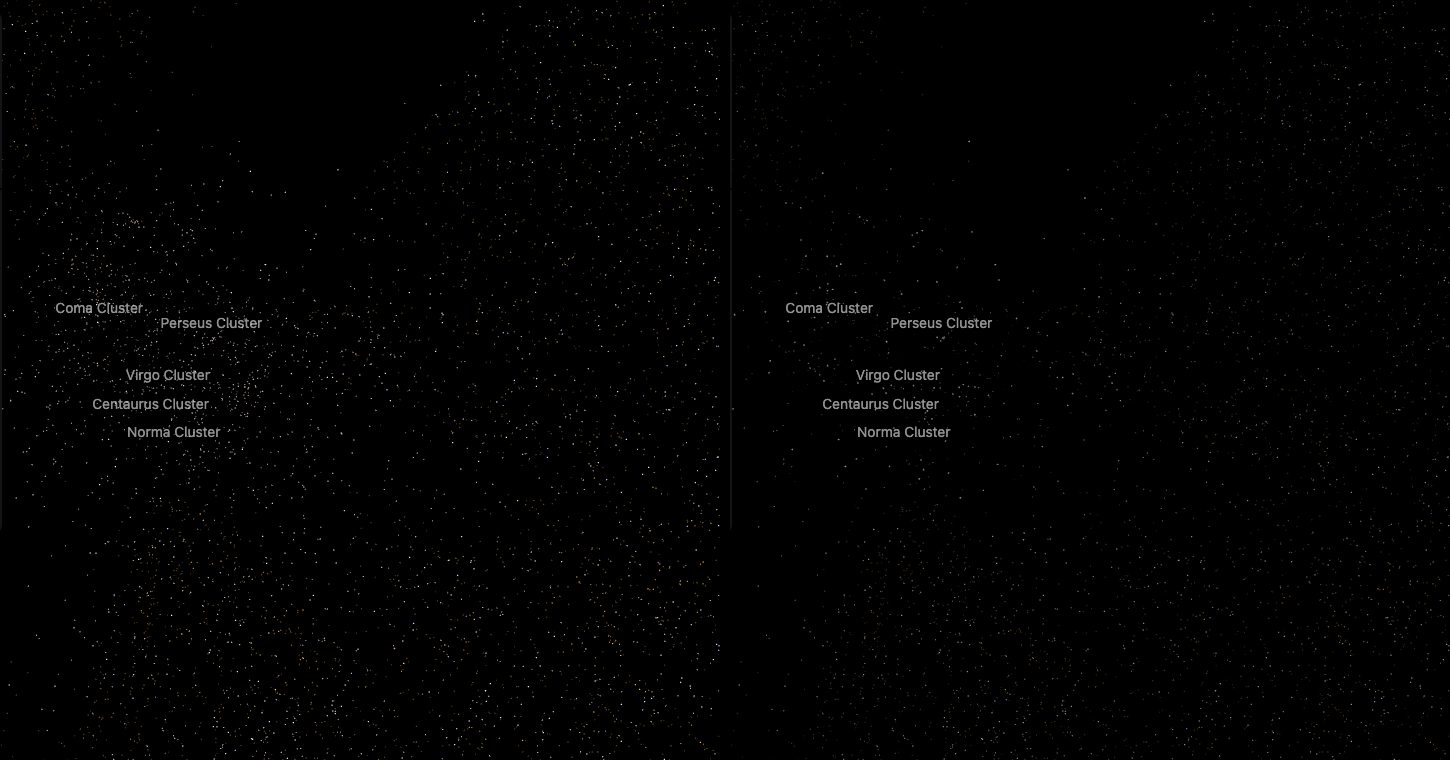
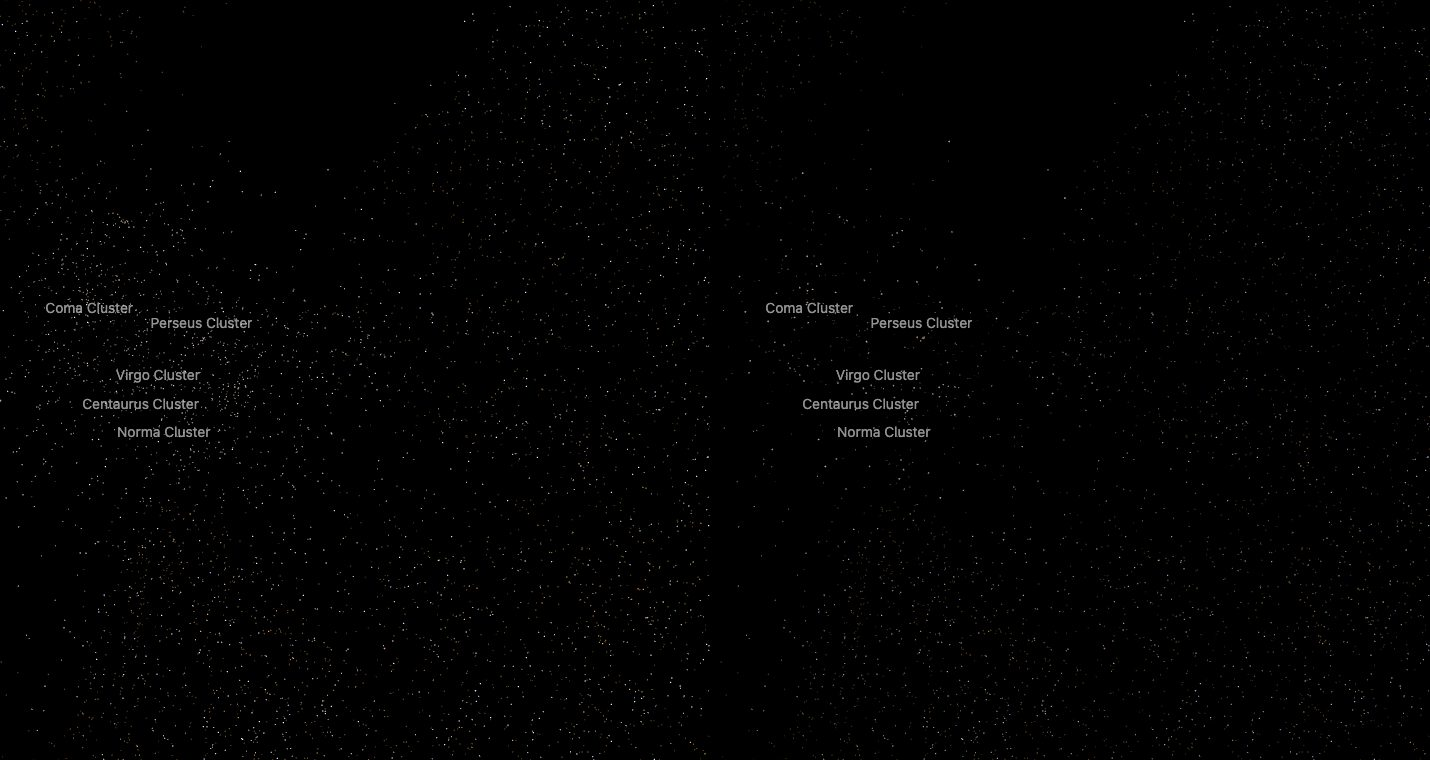
feat(universe): the background galaxies at 70%, with the before and after retaken

diff --git a/packages/renderer/src/universe/background-points.test.ts b/packages/renderer/src/universe/background-points.test.ts
@@ -21,7 +21,7 @@ test('inside our galaxy the banks neither load nor show', async () => {
   assert.deepEqual(roots.map(root => root.style.display), ['none', 'none']);
   field.publish(publication, 1e6 * pc, 1);
   assert.deepEqual(fetched, ['/a.json', '/b.json']);
-  assert.deepEqual(roots.map(root => root.style.opacity), ['0.6', '0.6'], 'fully outside, the background draws at its backdrop opacity');
+  assert.deepEqual(roots.map(root => root.style.opacity), ['0.7', '0.7'], 'fully outside, the background draws at its backdrop opacity');
   field.publish(publication, 8_000 * pc, 0);
   assert.deepEqual(roots.map(root => root.style.display), ['none', 'none']);
   field.destroy();

diff --git a/packages/renderer/src/universe/background-points.ts b/packages/renderer/src/universe/background-points.ts
@@ -2,7 +2,7 @@ import { mountCataloguePoints } from './catalogue-points.js';
 import type { VolumeCameraPublication } from '../volume/types.js';
 /** The galaxies beyond the Local Group draw at this share of their dots' own opacity: a backdrop behind the object in view.
  * A presentation choice, set by eye in the app. */
-const BACKGROUND_OPACITY = 0.6;
+const BACKGROUND_OPACITY = 0.7;
 /** A background bank, and the camera distance it begins at: it is fetched there and fades in over the next doubling. */
 export interface BackgroundPointBank { readonly url: string; readonly fromDistanceM?: number }
 

diff --git a/src/objects/nearby-universe/README.md b/src/objects/nearby-universe/README.md
@@ -26,7 +26,7 @@ The [galaxy recipe](source/galaxies/points.json) records both queries and the jo
 3. [`local-group-sample.mts`](../../../packages/bake/authoring/nearby-universe/local-group-sample.mts) takes the Local Group catalogue's galaxies nearer than the field's nearest galaxy, leaving out those drawn as their own objects (M31, M33, the Magellanic Clouds). The same route places them and tones them by absolute V magnitude, LVDB having no B; nearly all are dwarfs and take the faintest tone. LVDB gives no type, so they are white.
 4. [`twomrs-sample.mts`](../../../packages/bake/authoring/nearby-universe/twomrs-sample.mts) keeps the 2MRS galaxies more than 10 arcsec from every Cosmicflows-4 galaxy, with their redshifts moved to the cosmic microwave background's frame (Planck's dipole: 369.82 km/s toward l 264.021°, b 48.253°), and the same route places each at its Planck 2018 comoving distance ([recipe](source/galaxies-2mrs/points.json)). They reach down to 5° from the Milky Way's plane, where Cosmicflows-4's surveys stop at about 20°, and fill the southern sky Cosmicflows-4's northern SDSS sample leaves thin. A redshift distance carries the galaxy's own motion, so they sit less exactly than Cosmicflows-4's; 54% have no type in 2MRS and are white; they are toned by absolute Ks, ranked within the sample (full at −25.5, 30% at −22.5), and sized by it as the Cosmicflows-4 galaxies are by B.
 5. `packages/bake/cli/merge-catalogue-points.mts` thins the Cosmicflows-4 and 2MRS galaxies into four nested levels, counted in shells around the Sun; in the field and the 60 Mpc level each shell's room is split evenly over equal-area cells of the sky (32 and 8), so a direction one survey covers densely does not take another's room. The field allows 0.18 galaxies per 1,000 Mpc³ out to 200 Mpc, half what CF4 still holds at its edge. Around the Milky Way, levels out to 60, 20 and 10 Mpc bring that up to 5, 25 and 90. In each shell, group members take the room first, the richest group first, and as many again drawn at random from the rest fill the space between them (`groupsFirst`). Every member of a group of five or more is in the field, whatever the room, so a cluster far from the Milky Way is whole from anywhere. A fifth level holds the 200 Local Volume Database galaxies and every Cosmicflows-4 galaxy the other levels left out: from inside the Local Group the screen shows a narrow cone of the sky, and the thinned levels alone put a third as many dots there as the view from outside.
-6. `packages/bake/cli/stack-catalogue-points.mts` joins the levels into [one bank](source/dots/stack.json) of 39,904 dots (13,960, 2,316, 348, 54 and 23,226; the innermost keeps one in 3 of the 2MRS galaxies the others leave, since a bank draws at most 40,000). The app draws a growing share of it as you zoom in, so a level's edge is never on screen and a dot you have seen stays. The 60 Mpc level fills as the view narrows from 100 to 20 Mpc across, over two wheel notches; the innermost level as it narrows from 3 to 1 Mpc. Seen from outside, the field draws at most one dot per 170 square pixels, the density of the galaxies and quasars around it (its [recipe](source/dots/stack.json) gives the measurement), so it does not show as a ball twice as dense as the sky around it. Every galaxy beyond the Local Group draws at 60% opacity, a backdrop behind the object in view.
+6. `packages/bake/cli/stack-catalogue-points.mts` joins the levels into [one bank](source/dots/stack.json) of 39,904 dots (13,960, 2,316, 348, 54 and 23,226; the innermost keeps one in 3 of the 2MRS galaxies the others leave, since a bank draws at most 40,000). The app draws a growing share of it as you zoom in, so a level's edge is never on screen and a dot you have seen stays. The 60 Mpc level fills as the view narrows from 100 to 20 Mpc across, over two wheel notches; the innermost level as it narrows from 3 to 1 Mpc. Seen from outside, the field draws at most one dot per 170 square pixels, the density of the galaxies and quasars around it (its [recipe](source/dots/stack.json) gives the measurement), so it does not show as a ball twice as dense as the sky around it. Every galaxy beyond the Local Group draws at 70% opacity, a backdrop behind the object in view.
 
 ## Beyond the Cosmicflows-4 field
 
